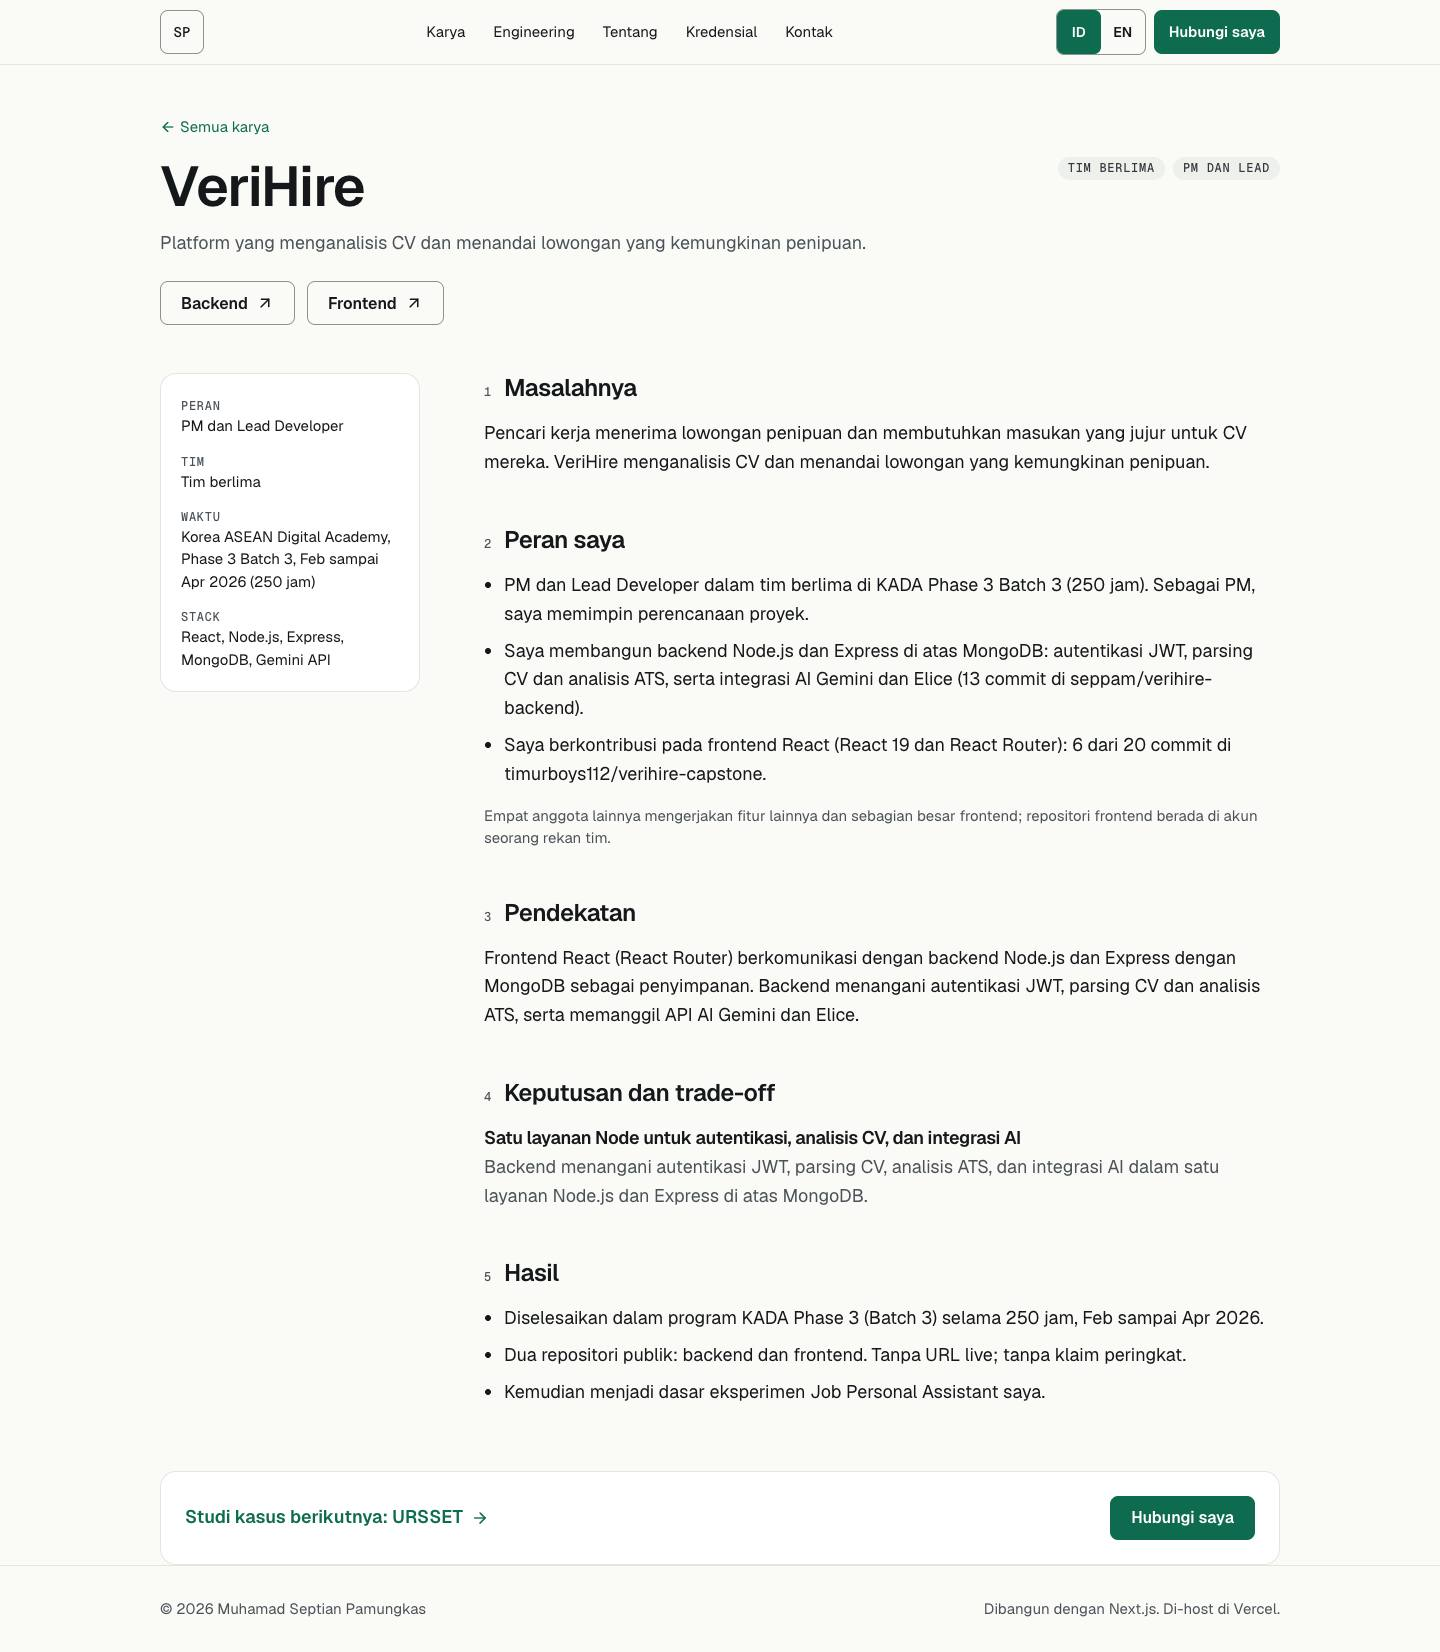
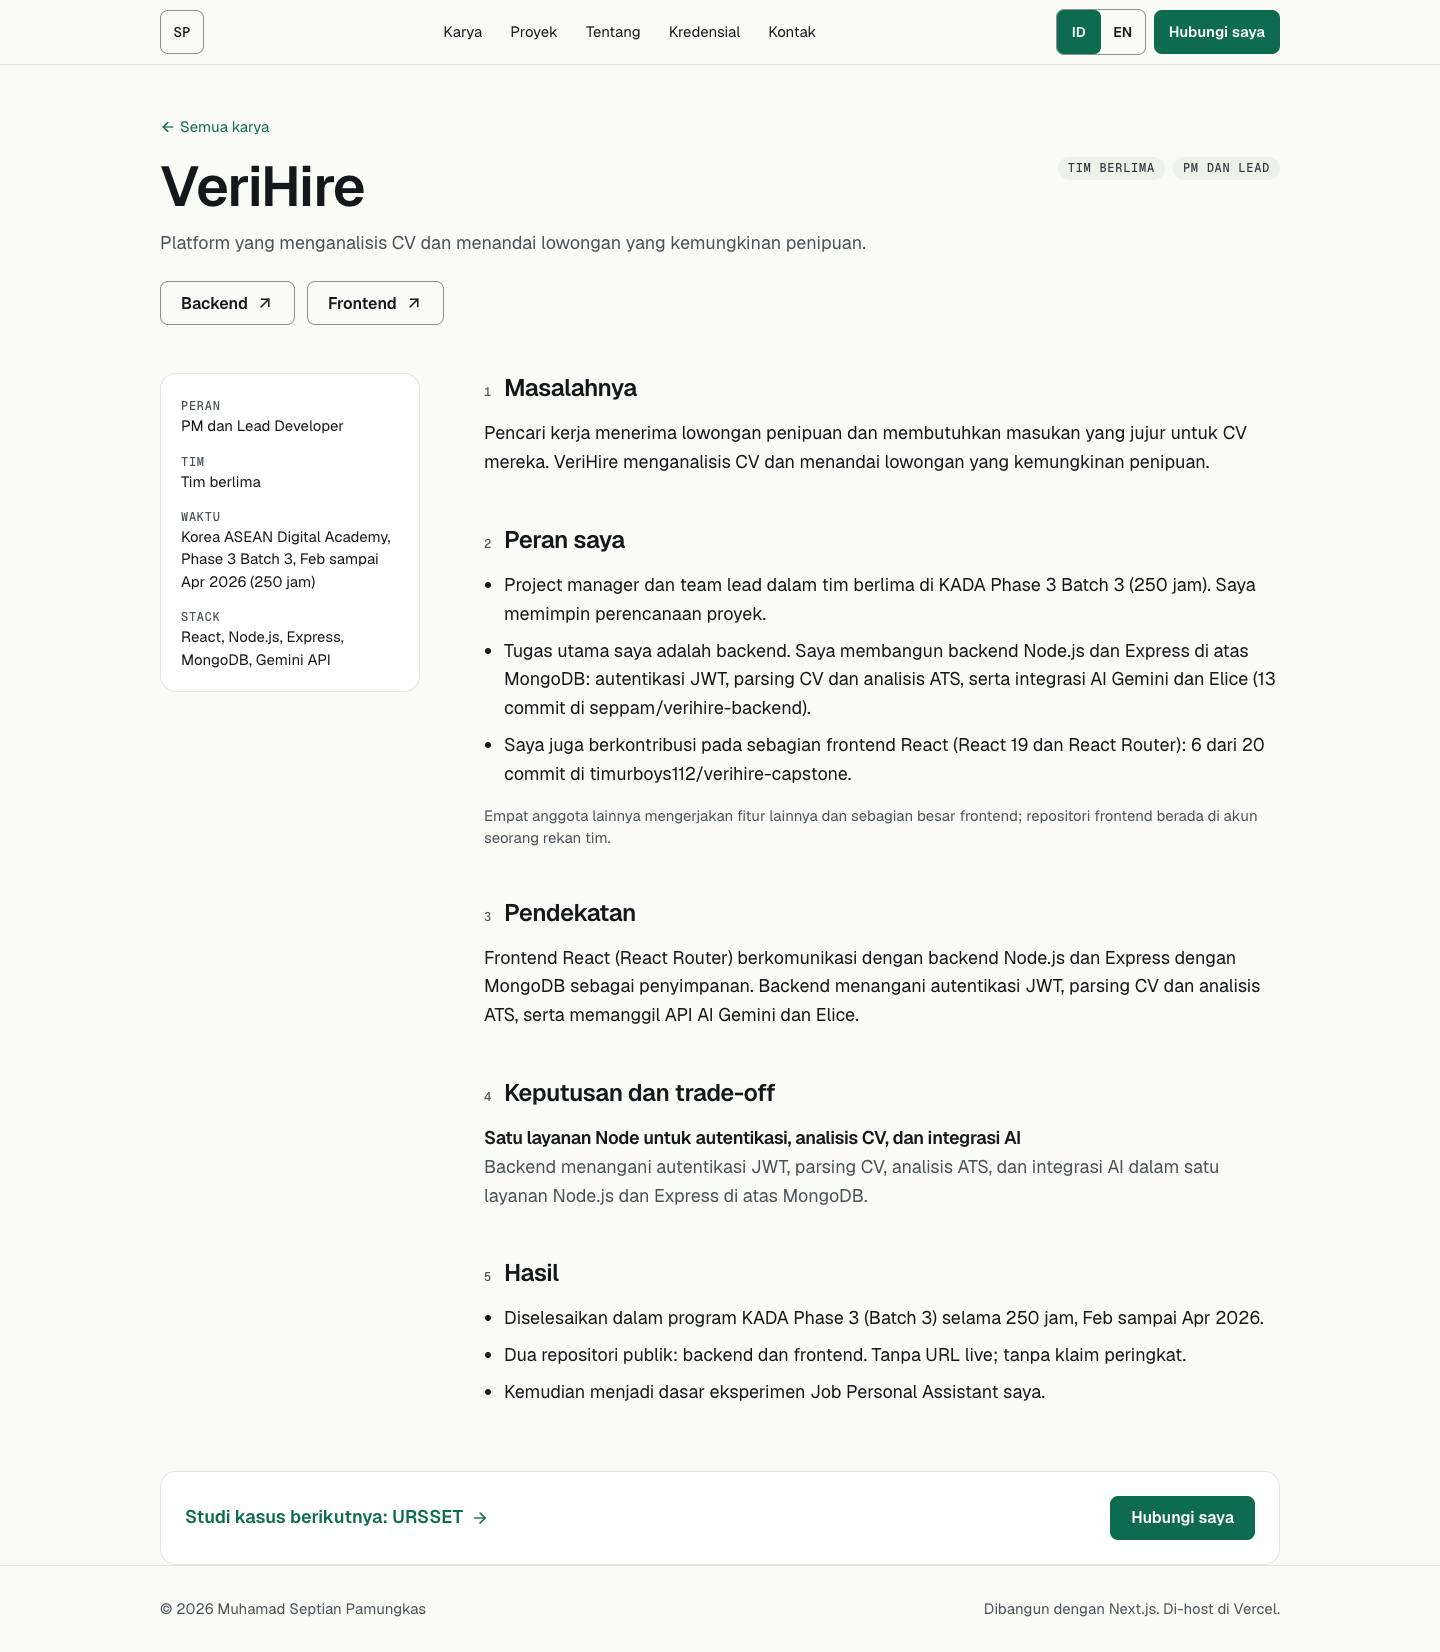
Rename Engineering section to Projects, ID job wording, VeriHire role detail

diff --git a/src/data/profile.ts b/src/data/profile.ts
@@ -15,7 +15,7 @@ export const contact = {
 
 export const openLine: Loc<string> = {
   en: "Open to hybrid and remote roles, including remote roles worldwide.",
-  id: "Terbuka untuk peran hybrid dan remote, termasuk peran remote di seluruh dunia.",
+  id: "Terbuka untuk kerja hybrid dan remote, termasuk kerja remote di seluruh dunia.",
 };
 
 export const hero: Loc<{ h1: string; sublineLong: string; sublineShort: string }> = {
@@ -39,13 +39,13 @@ export const proof: Loc<{ value: string; caption: string; href: string }[]> = {
   en: [
     { value: "3 years", caption: "Enterprise IT at Astra Graphia IT, 2018 to 2021", href: "#timeline" },
     { value: "45 tests", caption: "7 contract types in URSSET (Foundry)", href: "/work/ursset" },
-    { value: "5 repos", caption: "Documented, each with a README and tests", href: "#engineering" },
+    { value: "5 repos", caption: "Documented, each with a README and tests", href: "#projects" },
     { value: "10 certificates", caption: "Including AWS re/Start, Cisco Cybersecurity, KADA Phase 3", href: "#credentials" },
   ],
   id: [
     { value: "3 tahun", caption: "IT enterprise di Astra Graphia IT, 2018 sampai 2021", href: "#timeline" },
     { value: "45 tes", caption: "7 jenis kontrak di URSSET (Foundry)", href: "/work/ursset" },
-    { value: "5 repo", caption: "Terdokumentasi, masing-masing dengan README dan tes", href: "#engineering" },
+    { value: "5 repo", caption: "Terdokumentasi, masing-masing dengan README dan tes", href: "#projects" },
     { value: "10 sertifikat", caption: "Termasuk AWS re/Start, Cisco Cybersecurity, KADA Phase 3", href: "#credentials" },
   ],
 };
@@ -90,7 +90,7 @@ export const about: Loc<string[]> = {
   id: [
     "Saya memulai karier di IT enterprise. Selama tiga tahun di Astra Graphia IT saya menulis dan memperbaiki sistem ASP.NET, menyusun dokumen proses bisnis dan desain sistem teknis, serta mendukung aplikasi ticketing ERP internal yang memenuhi SLA 95% setiap bulan selama saya bertugas di support.",
     "Setelah jeda karier untuk merawat keluarga dan belajar ulang secara mandiri, saya kembali pada 2026 lewat Korea ASEAN Digital Academy, tempat saya menjadi PM dan Lead Developer VeriHire dalam tim berlima. Sejak itu saya membangun URSSET sendirian, mengerjakan backend dan orkestrasi AI GameForge AI bersama tim berempat, dan mempublikasikan lima proyek engineering yang terdokumentasi.",
-    "Saya mencari peran full-stack atau systems analyst di tim yang memakai AI pada produk atau cara kerjanya. Saya suka mengubah kebutuhan yang masih kabur menjadi spesifikasi, fitur yang berjalan, dan tes yang membuktikannya. Pekerjaan saya pada 2026 dilakukan dalam tim remote, dan saya membaca serta menulis bahasa Inggris secara profesional.",
+    "Saya mencari kerja full-stack atau systems analyst di tim yang memakai AI pada produk atau cara kerjanya. Saya suka mengubah kebutuhan yang masih kabur menjadi spesifikasi, fitur yang berjalan, dan tes yang membuktikannya. Pekerjaan saya pada 2026 dilakukan dalam tim remote, dan saya membaca serta menulis bahasa Inggris secara profesional.",
   ],
 };
 

diff --git a/src/data/case-studies.ts b/src/data/case-studies.ts
@@ -201,9 +201,9 @@ export const caseStudies: Record<string, Loc<CaseStudy>> = {
       ],
       myRole: {
         did: [
-          "PM and Lead Developer of a team of 5 in KADA Phase 3 Batch 3 (250 hours). As PM, I led the planning of the project.",
-          "I built the Node.js and Express backend on MongoDB: JWT authentication, CV parsing and ATS analysis, and the Gemini and Elice AI integration (13 commits in seppam/verihire-backend).",
-          "I contributed to the React frontend (React 19 and React Router): 6 of the 20 commits in timurboys112/verihire-capstone.",
+          "Project manager and team lead of a team of 5 in KADA Phase 3 Batch 3 (250 hours). I led the planning of the project.",
+          "My main job was the backend. I built the Node.js and Express backend on MongoDB: JWT authentication, CV parsing and ATS analysis, and the Gemini and Elice AI integration (13 commits in seppam/verihire-backend).",
+          "I also contributed to parts of the React frontend (React 19 and React Router): 6 of the 20 commits in timurboys112/verihire-capstone.",
         ],
         others: "The other four members worked on the remaining features and most of the frontend; the frontend repository lives under a teammate's account.",
       },
@@ -232,9 +232,9 @@ export const caseStudies: Record<string, Loc<CaseStudy>> = {
       ],
       myRole: {
         did: [
-          "PM dan Lead Developer dalam tim berlima di KADA Phase 3 Batch 3 (250 jam). Sebagai PM, saya memimpin perencanaan proyek.",
-          "Saya membangun backend Node.js dan Express di atas MongoDB: autentikasi JWT, parsing CV dan analisis ATS, serta integrasi AI Gemini dan Elice (13 commit di seppam/verihire-backend).",
-          "Saya berkontribusi pada frontend React (React 19 dan React Router): 6 dari 20 commit di timurboys112/verihire-capstone.",
+          "Project manager dan team lead dalam tim berlima di KADA Phase 3 Batch 3 (250 jam). Saya memimpin perencanaan proyek.",
+          "Tugas utama saya adalah backend. Saya membangun backend Node.js dan Express di atas MongoDB: autentikasi JWT, parsing CV dan analisis ATS, serta integrasi AI Gemini dan Elice (13 commit di seppam/verihire-backend).",
+          "Saya juga berkontribusi pada sebagian frontend React (React 19 dan React Router): 6 dari 20 commit di timurboys112/verihire-capstone.",
         ],
         others: "Empat anggota lainnya mengerjakan fitur lainnya dan sebagian besar frontend; repositori frontend berada di akun seorang rekan tim.",
       },

diff --git a/src/data/i18n.ts b/src/data/i18n.ts
@@ -20,7 +20,7 @@ export const ui = {
   skip: { en: "Skip to content", id: "Langsung ke konten" },
   nav: {
     work: { en: "Work", id: "Karya" },
-    engineering: { en: "Engineering", id: "Engineering" },
+    projects: { en: "Projects", id: "Proyek" },
     about: { en: "About", id: "Tentang" },
     credentials: { en: "Credentials", id: "Kredensial" },
     contact: { en: "Contact", id: "Kontak" },
@@ -50,9 +50,9 @@ export const ui = {
       en: "Four 2026 products. Two are live today. Each shows my part.",
       id: "Empat produk 2026. Dua di antaranya sudah live. Masing-masing menunjukkan bagian yang saya kerjakan.",
     },
-    engEyebrow: { en: "ENGINEERING", id: "ENGINEERING" },
-    engTitle: { en: "More engineering", id: "Engineering lainnya" },
-    engNote: { en: "Each repo has a README and tests.", id: "Setiap repo punya README dan tes." },
+    engEyebrow: { en: "PROJECTS", id: "PROYEK" },
+    engTitle: { en: "Projects", id: "Proyek" },
+    engNote: { en: "Each has a README and tests.", id: "Masing-masing punya README dan tes." },
     earlier: { en: "Earlier experiments", id: "Eksperimen sebelumnya" },
     stack: { en: "Stack", id: "Stack" },
     apEyebrow: { en: "APPROACH", id: "PENDEKATAN" },

diff --git a/src/data/site.ts b/src/data/site.ts
@@ -14,6 +14,6 @@ export const SITE_TITLE: Loc<string> = {
 };
 export const SITE_DESCRIPTION: Loc<string> = {
   en: "Full-stack developer and systems analyst building AI products. 3 years in enterprise IT, 2026 projects: URSSET, GameForge AI, VeriHire. Open to hybrid and remote roles.",
-  id: "Full-stack developer dan systems analyst yang membangun produk AI. 3 tahun di IT enterprise, proyek 2026: URSSET, GameForge AI, VeriHire. Terbuka untuk peran hybrid dan remote.",
+  id: "Full-stack developer dan systems analyst yang membangun produk AI. 3 tahun di IT enterprise, proyek 2026: URSSET, GameForge AI, VeriHire. Terbuka untuk kerja hybrid dan remote.",
 };
 export const OG_LOCALE: Record<Lang, string> = { en: "en_US", id: "id_ID" };

diff --git a/src/components/Nav.tsx b/src/components/Nav.tsx
@@ -12,7 +12,7 @@ const LANG_NAME: Record<Lang, string> = { en: "English", id: "Bahasa Indonesia" 
 export default function Nav({ lang, alt }: { lang: Lang; alt: string }) {
   const links = [
     { href: langHref(lang, "/#work"), label: ui.nav.work[lang] },
-    { href: langHref(lang, "/#engineering"), label: ui.nav.engineering[lang] },
+    { href: langHref(lang, "/#projects"), label: ui.nav.projects[lang] },
     { href: langHref(lang, "/#about"), label: ui.nav.about[lang] },
     { href: langHref(lang, "/#credentials"), label: ui.nav.credentials[lang] },
     { href: langHref(lang, "/#contact"), label: ui.nav.contact[lang] },

diff --git a/src/components/Sections.tsx b/src/components/Sections.tsx
@@ -109,7 +109,7 @@ export function Engineering({ lang }: L) {
   const s = ui.sections;
   const nt = ui.newTab[lang];
   return (
-    <section id="engineering" className="wrap section pt-0 md:pt-0" aria-labelledby="eng-h">
+    <section id="projects" className="wrap section pt-0 md:pt-0" aria-labelledby="eng-h">
       <Eyebrow n="02" label={s.engEyebrow[lang]} />
       <div className="flex flex-wrap items-end justify-between gap-2">
         <h2 id="eng-h" className="h2">{s.engTitle[lang]}</h2>
